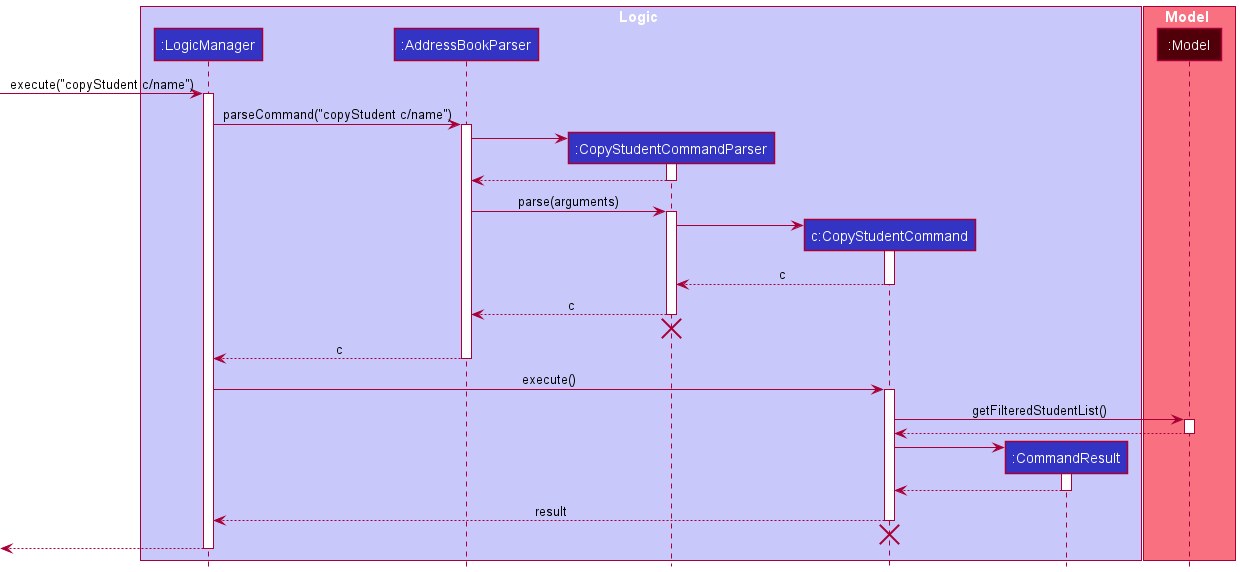
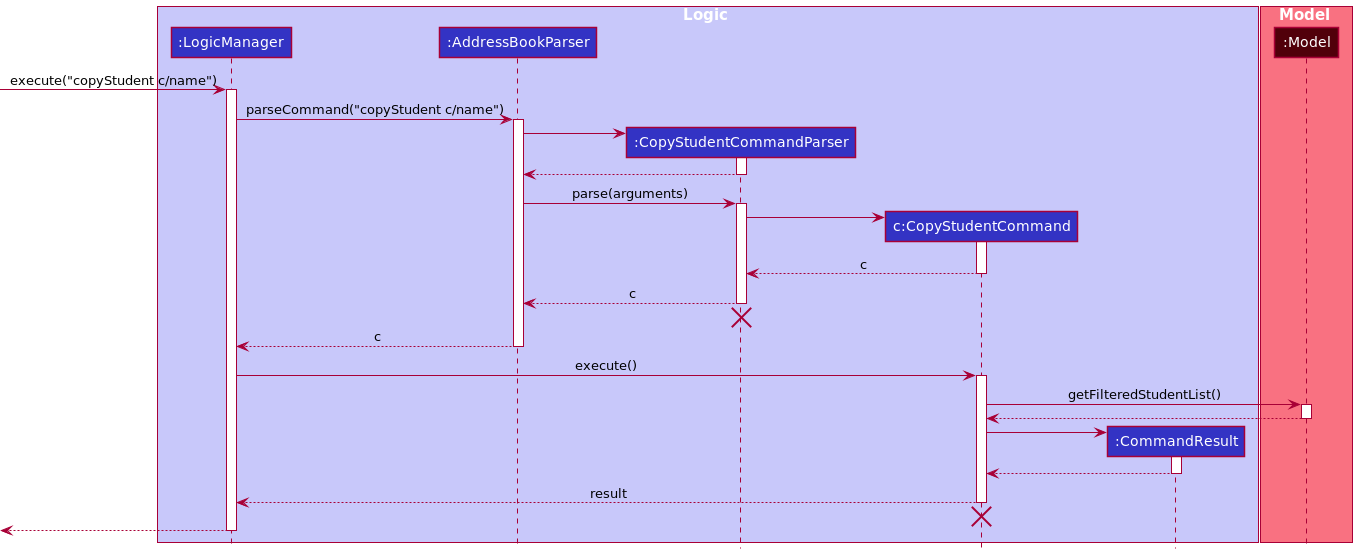
Made sequence diagrams more consistent

diff --git a/docs/DeveloperGuide.md b/docs/DeveloperGuide.md
@@ -508,7 +508,7 @@ Extensions:
 
   * 1a1. NewAddressBook notifies the user that some of their inputs are invalid. 
   
-      Use case resumes at step 2
+      Use case resumes at step 1.
 
 * 1b. The student or teacher already exists.
 
@@ -549,7 +549,7 @@ Extensions:
 
   * 4a1. NewAddressBook notifies the user that his input is invalid.
 
-      Use case resumes at step 2.
+      Use case resumes at step 4.
       
 * 5a. The currently displayed list is empty.
 
@@ -575,7 +575,7 @@ Extensions:
 
     * 3a1. NewAddressBook informs the user that index is invalid.
 
-      Use case resumes at step 1.
+      Use case resumes at step 3.
 
 #### Use Case 05: Editing a student or teacher
 
@@ -597,6 +597,7 @@ Extensions:
   * 3a1. NewAddressBook informs the user that index is invalid.
 
     Use case resumes at step 3.
+
 * 3b. The user input is invalid.
 
   * 3b1. NewAddressBook informs the user that the input is invalid.
@@ -607,7 +608,7 @@ Extensions:
 
     * 3c1. NewAddressBook informs the user that there is nothing to be edited. No action is performed.
 
-      Use case resumes at step3.
+      Use case resumes at step 3.
 
 #### Use Case 06: Finding a student or teacher by name
 
@@ -619,7 +620,7 @@ Extensions:
     Use case ends.
 
 **Extensions**
-* 2a. No students/teachers match the name specified by the user.
+* 2a. No students/teachers match the keywords specified by the user.
 
     * 2a1. NewAddressBook displays an empty list to the user.
 
@@ -636,13 +637,13 @@ Extensions:
     Use case ends.
 
 **Extensions**
-* 2a. The tag values provided are invalid (ie. contain alphanumeric characters).
+* 2a. The tag values provided are invalid (ie. contain special characters).
 
     * 2a1. NewAddressBook tells the user that the input is invalid.
 
       Use case resumes at step 2.
 
-* 3a. No students/teachers match the name specified by the user.
+* 3a. No students/teachers match the keywords specified by the user.
 
     * 3a1. NewAddressBook displays an empty list to the user.
 
@@ -676,7 +677,7 @@ Extensions:
     Use case ends.
 
 **Extensions**
-* 2a. THe list is empty.
+* 2a. The list is empty.
 
     Use case ends.
 * 3a. The given index is invalid.
@@ -689,11 +690,11 @@ Extensions:
 
   * 3b1. NewAddressBook informs the user that the same medical history is already recorded for the student.
 
-    Use case resumes at step 3.
+    Use case ends.
 
 * 3c. The user provides an empty string as the medical history.
 
-    * 3c1. NewAddressBook overrides the medical history with an empty string.
+    * 3c1. NewAddressBook removes the medical history of the student.
 
       Use case ends.
 

diff --git a/docs/UserGuide.md b/docs/UserGuide.md
@@ -391,7 +391,7 @@ How this command works:
 
 Examples:
 * `medical 1 m/ADHD` adds ADHD to the `MEDICAL_HISTORY` of student 1 in the displayed student list.
-* `medical 1 m/``removes the `MEDICAL_HISTORY` from student 1 in the displayed student list.
+* `medical 1 m/` removes the `MEDICAL_HISTORY` from student 1 in the displayed student list.
 
 #### View the full medical history of a student : `showMedical`
 
